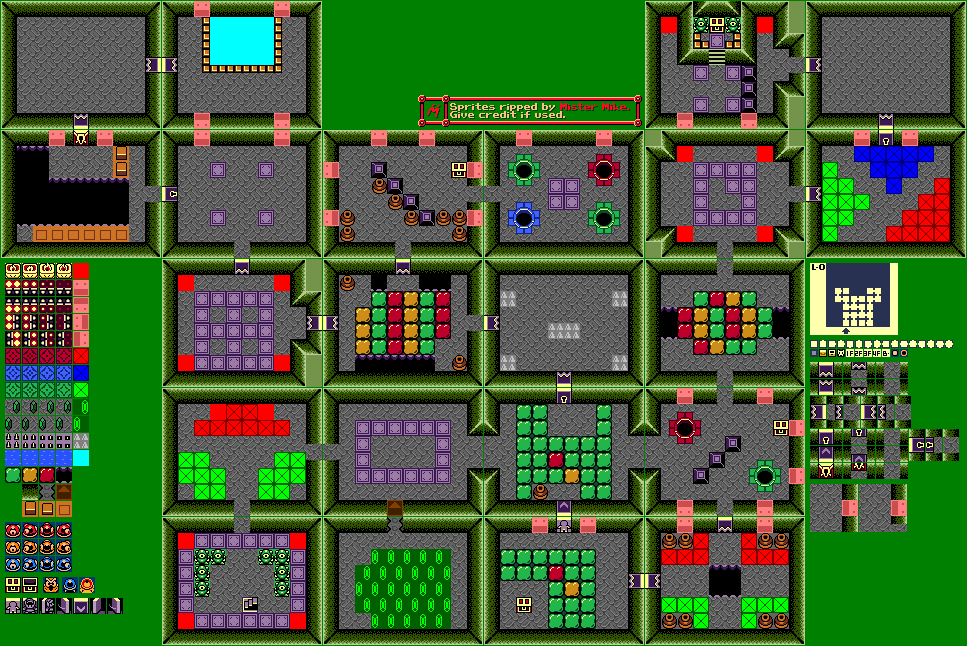
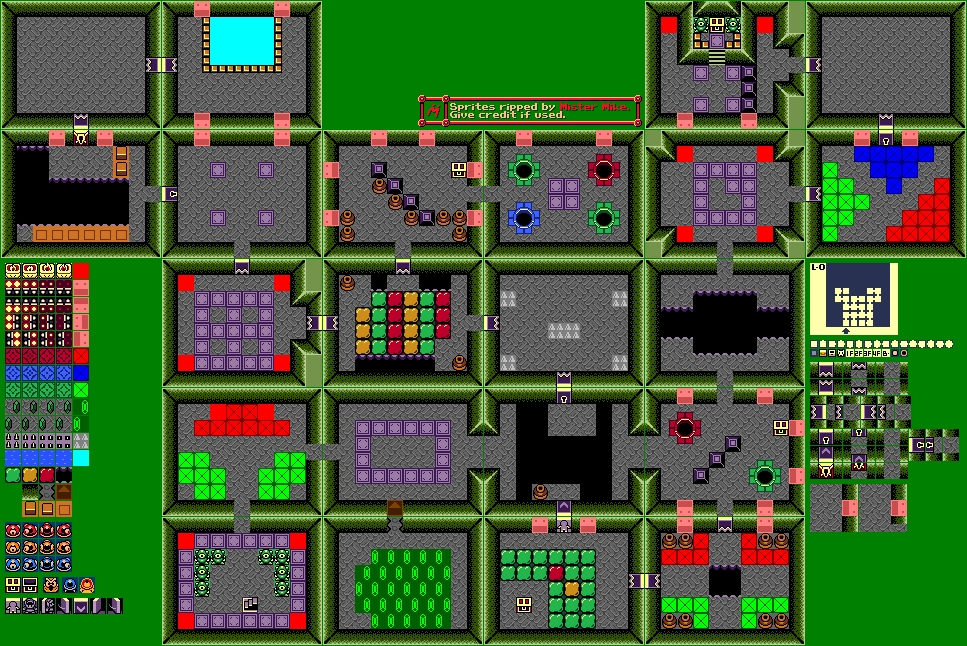
Floating platforms

Changed region(s): [[0.5274, 0.6192, 0.6515, 0.774], [0.6825, 0.4334, 0.8066, 0.5573]]

diff --git a/enviorment.js b/enviorment.js
@@ -580,6 +580,77 @@ class Rotor extends BackgroundElement {
     }
 }
 
+class FloatingFloor extends BackgroundElement{
+    constructor(x, y, uses = 3){
+        super(x, y, TILEWIDTH, TILEHEIGHT, "floating_floor", true, null, "cyan", null);
+        this.boundingBoxPressure = new BoundingBox(x+0.5*TILEWIDTH, y+0.2*TILEHEIGHT, TILEWIDTH*0.8, TILEHEIGHT*0.2); 
+        this.uses = uses; // Number of uses before disappearing
+        this.onCooldown = false; 
+        this.cooldownTime = 1000; // ms
+        this.cooldownTimer = 0;
+        this.texture = textures.floating_floor; 
+    }
+
+    steptOn(player) {
+        if (!this.onCooldown && this.uses > 0) {
+            this.uses -= 1;
+            this.onCooldown = true;
+            this.cooldownTimer = this.cooldownTime;
+            if (this.uses <= 0) {
+                this.active = false; // Or remove from scene in update
+                if (player && typeof player.takeDamage === "function") {
+                    player.takeDamage(10);
+                    console.log("Floating floor disappeared, player took damage!");
+                }
+            } 
+            switch (this.uses) {
+                case 3:
+                    this.color = "green";
+                    break;
+                case 2:
+                    this.color = "yellow";
+                    break;
+                case 1:
+                    this.color = "red";
+                    break;
+                default:
+                    this.color = null;
+            }
+        } else if  (!this.onCooldown && this.uses <= 0){
+            // floor is broken, user will fall  to the void
+            player.takeDamage(10);
+        }
+    }
+
+    update(deltaTime) {
+        super.update(deltaTime);
+        if (this.onCooldown) {
+            this.cooldownTimer -= deltaTime;
+            if (this.cooldownTimer <= 0) {
+                this.onCooldown = false;
+                this.cooldownTimer = 0;
+            }
+        }
+    }
+
+    draw(context) {
+        if (this.texture && this.uses > 0) {
+            let pos = transform(this.x, this.y, context);
+            let size = transform(this.width, this.height, context);
+            let sx = 0;
+            if (this.uses === 3) sx = 0;
+            else if (this.uses === 2) sx = 16;
+            else if (this.uses === 1) sx = 32;
+            context.drawImage(this.texture.img, sx, 0, 16, 16, pos.x, pos.y, size.x, size.y);
+        } else {
+            this.texture = null;
+        }
+        if (DEBUG) {
+            this.boundingBoxPressure.draw(context);
+        }
+    }
+}
+
 function createVase(x, y){
     let element =  new BackgroundElement(x, y, TILEWIDTH, TILEHEIGHT, "vase", false, texture = textures.vase, color = null, drawing_settings={sx:0, sy:0, sWidth:16, sHeight:16});
     element.boundingBox = new BoundingBox(x+0.5*TILEWIDTH, y+0.5*TILEHEIGHT, TILEWIDTH, TILEHEIGHT); // Bounding box for collision detection
@@ -787,7 +858,7 @@ class Level{
                 copy.isOpen = element.isOpen; // Copy the isOpen state
                 copy.callback = element.callback; 
                 return copy;
-            }else if (element instanceof Rotor) {
+            } else if (element instanceof Rotor) {
                 // Create a new Rotor instance
                 let copy = new Rotor(
                     element.x, element.y, 
@@ -798,6 +869,15 @@ class Level{
                 copy.onSolved = element.onSolved; // Copy the onSolved callback
                 copy.globalReference = element;
                 copy.boundingBox = element.boundingBox; 
+                copy.callback = element.callback; 
+                return copy;
+            } else if (element instanceof FloatingFloor) {
+                // Create a new FloatingFloor instance
+                let copy = new FloatingFloor(
+                    element.x, element.y, element.uses
+                );
+                copy.globalReference = element;
+                copy.boundingBoxPressure = element.boundingBoxPressure; 
                 copy.callback = element.callback; 
                 return copy;
             } else if (element instanceof BackgroundElement) {

diff --git a/enviorment_dungeon.js b/enviorment_dungeon.js
@@ -241,6 +241,36 @@ const dungeon_tile17 = [new BackgroundElement(0, 0, PLAYSCREENWIDTH, PLAYSCREENH
     new InvisibleWall(2*TILEWIDTH, 7*TILEHEIGHT, 4*TILEWIDTH, TILEHEIGHT ),
     new InvisibleWall(7*TILEWIDTH, 0*TILEHEIGHT, 4*TILEWIDTH, TILEHEIGHT ),
     new InvisibleWall(7*TILEWIDTH, 7*TILEHEIGHT, 4*TILEWIDTH, TILEHEIGHT ),
+
+    new FloatingFloor(3*TILEWIDTH, 2*TILEHEIGHT),
+    new FloatingFloor(4*TILEWIDTH, 2*TILEHEIGHT),
+    new FloatingFloor(5*TILEWIDTH, 2*TILEHEIGHT),
+    new FloatingFloor(6*TILEWIDTH, 2*TILEHEIGHT),
+
+    new FloatingFloor(3*TILEWIDTH, 3*TILEHEIGHT),
+    new FloatingFloor(4*TILEWIDTH, 3*TILEHEIGHT),
+    new FloatingFloor(5*TILEWIDTH, 3*TILEHEIGHT),
+    new FloatingFloor(6*TILEWIDTH, 3*TILEHEIGHT),
+
+    new FloatingFloor(3*TILEWIDTH, 4*TILEHEIGHT),
+    new FloatingFloor(4*TILEWIDTH, 4*TILEHEIGHT),
+    new FloatingFloor(5*TILEWIDTH, 4*TILEHEIGHT),
+    new FloatingFloor(6*TILEWIDTH, 4*TILEHEIGHT),
+
+    new FloatingFloor(3*TILEWIDTH, 5*TILEHEIGHT),
+    new FloatingFloor(4*TILEWIDTH, 5*TILEHEIGHT),
+    new FloatingFloor(5*TILEWIDTH, 5*TILEHEIGHT),
+    new FloatingFloor(6*TILEWIDTH, 5*TILEHEIGHT),
+
+    new FloatingFloor(2*TILEWIDTH, 3*TILEHEIGHT,1),
+    new FloatingFloor(2*TILEWIDTH, 4*TILEHEIGHT,2),
+    new FloatingFloor(7*TILEWIDTH, 3*TILEHEIGHT),
+    new FloatingFloor(7*TILEWIDTH, 4*TILEHEIGHT),
+
+    new FloatingFloor(1*TILEWIDTH, 4*TILEHEIGHT,0),
+    new FloatingFloor(1*TILEWIDTH, 3*TILEHEIGHT,0),
+    new FloatingFloor(8*TILEWIDTH, 3*TILEHEIGHT,0),
+    new FloatingFloor(8*TILEWIDTH, 4*TILEHEIGHT,0),
 ];
 const dungeon_tile18 = [new BackgroundElement(0, 0, PLAYSCREENWIDTH, PLAYSCREENHEIGHT, "ground", true, texture=textures.dungeon1, color="black",
     drawing_settings={sx: 800+6, sy: 256+3, sWidth: 160, sHeight: 128})];
@@ -325,6 +355,34 @@ const dungeon_tile22 = [new BackgroundElement(0, 0, PLAYSCREENWIDTH, PLAYSCREENH
     new InvisibleWall(2*TILEWIDTH, 7*TILEHEIGHT, 4*TILEWIDTH, TILEHEIGHT ),
     new InvisibleWall(7*TILEWIDTH, 0*TILEHEIGHT, 4*TILEWIDTH, TILEHEIGHT ),
     new InvisibleWall(7*TILEWIDTH, 7*TILEHEIGHT, 4*TILEWIDTH, TILEHEIGHT ),
+
+    new FloatingFloor(2*TILEWIDTH, 1*TILEHEIGHT,3),
+    new FloatingFloor(2*TILEWIDTH, 2*TILEHEIGHT,3),
+    new FloatingFloor(2*TILEWIDTH, 3*TILEHEIGHT,3),
+    new FloatingFloor(2*TILEWIDTH, 4*TILEHEIGHT,3),
+    new FloatingFloor(2*TILEWIDTH, 5*TILEHEIGHT,2),
+    new FloatingFloor(2*TILEWIDTH, 6*TILEHEIGHT,3),
+    new FloatingFloor(3*TILEWIDTH, 1*TILEHEIGHT,3),
+    new FloatingFloor(3*TILEWIDTH, 2*TILEHEIGHT,1),
+    new FloatingFloor(3*TILEWIDTH, 3*TILEHEIGHT,3),
+    new FloatingFloor(3*TILEWIDTH, 4*TILEHEIGHT,3),
+    new FloatingFloor(3*TILEWIDTH, 5*TILEHEIGHT,3),
+    new FloatingFloor(4*TILEWIDTH, 3*TILEHEIGHT,1),
+    new FloatingFloor(4*TILEWIDTH, 4*TILEHEIGHT,3),
+    new FloatingFloor(4*TILEWIDTH, 5*TILEHEIGHT,3),
+    new FloatingFloor(5*TILEWIDTH, 3*TILEHEIGHT,3),
+    new FloatingFloor(5*TILEWIDTH, 4*TILEHEIGHT,3),
+    new FloatingFloor(5*TILEWIDTH, 5*TILEHEIGHT,3),
+    new FloatingFloor(6*TILEWIDTH, 3*TILEHEIGHT,3),
+    new FloatingFloor(6*TILEWIDTH, 4*TILEHEIGHT,3),
+    new FloatingFloor(6*TILEWIDTH, 5*TILEHEIGHT,2),
+    new FloatingFloor(6*TILEWIDTH, 6*TILEHEIGHT,3),
+    new FloatingFloor(7*TILEWIDTH, 1*TILEHEIGHT,3),
+    new FloatingFloor(7*TILEWIDTH, 2*TILEHEIGHT,3),
+    new FloatingFloor(7*TILEWIDTH, 3*TILEHEIGHT,3),
+    new FloatingFloor(7*TILEWIDTH, 4*TILEHEIGHT,3),
+    new FloatingFloor(7*TILEWIDTH, 5*TILEHEIGHT,3),
+    new FloatingFloor(7*TILEWIDTH, 6*TILEHEIGHT,3),
 ];
 const dungeon_tile23 = [new BackgroundElement(0, 0, PLAYSCREENWIDTH, PLAYSCREENHEIGHT, "ground", true, texture=textures.dungeon1, color="black",
     drawing_settings={sx: 640+5, sy: 384+4, sWidth: 160, sHeight: 128}),

diff --git a/scene.js b/scene.js
@@ -197,6 +197,11 @@ class Scene{
 			if (element.type==="door" && !element.isActive() && !element.isColliding(this.player.x, this.player.y, this.player.width, this.player.height)) {
 					element.activate(); // Activate the door if the player is not colliding with it
 			}
+			if (element instanceof FloatingFloor) {
+				if (element.boundingBoxPressure.isColliding(this.player.boundingBox, -0.04)) {
+					element.steptOn(this.player); 
+				}
+    		}
 		});
 
 		// Check for remaining enemies

diff --git a/texture.js b/texture.js
@@ -48,4 +48,5 @@ const textures = {
 	rotor_blue: new Texture("imgs/rotor_blue.png"),
 	rotor_green: new Texture("imgs/rotor_green.png"),
 	rotor_yellow: new Texture("imgs/rotor_yellow.png"),
+	floating_floor: new Texture("imgs/floating_floor.png"),
 }
